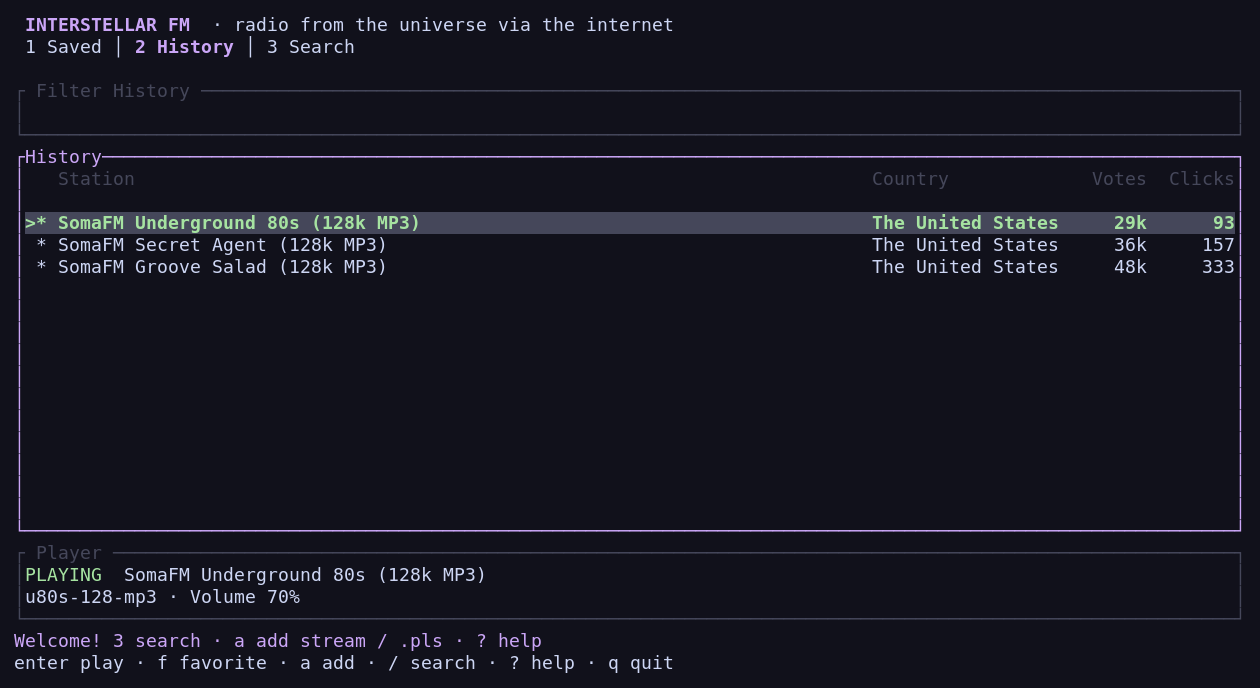
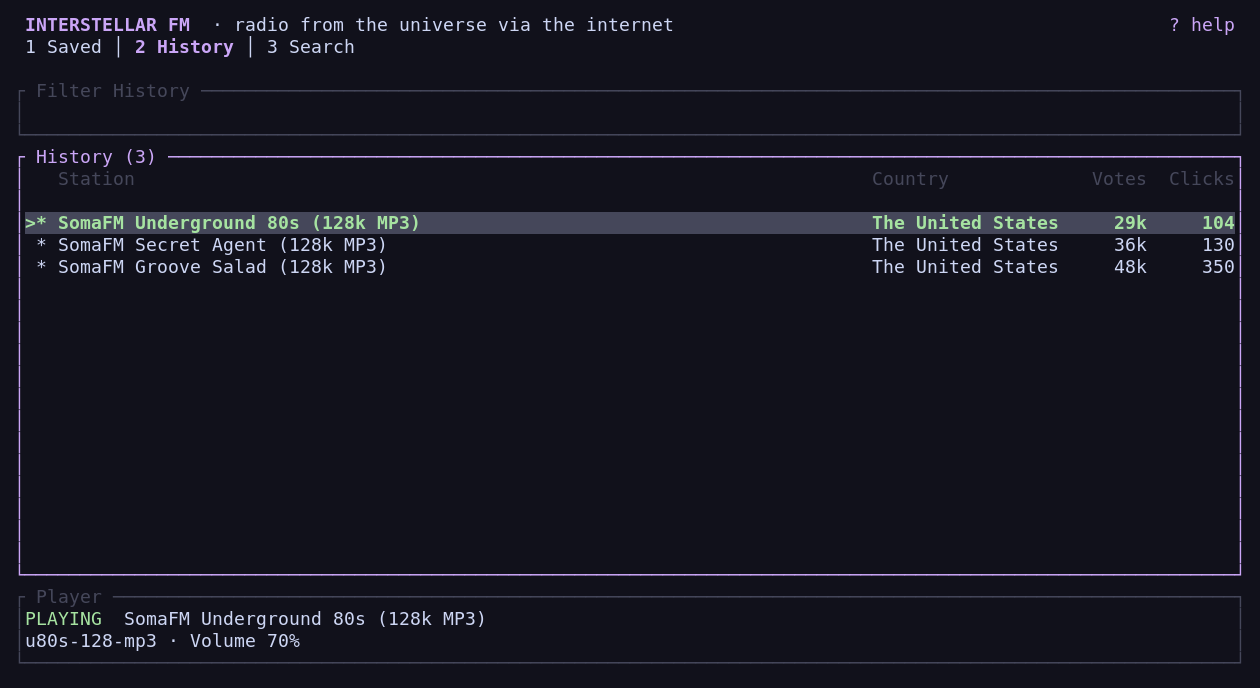
ui: replace routine footer hints with top-right help

diff --git a/src/ui.rs b/src/ui.rs
@@ -98,10 +98,22 @@ pub fn draw(frame: &mut Frame, app: &mut App) {
         Constraint::Length(1),
         Constraint::Min(3),
         Constraint::Length(4),
-        Constraint::Length(2),
+        Constraint::Length(u16::from(!app.message.is_empty())),
     ])
     .split(size);
     let color = accent(app);
+    let help = Line::from(format!("{} help ", app.keymap.hint("help")));
+    let header = Layout::horizontal([
+        Constraint::Min(0),
+        Constraint::Length(help.width().min(size.width as usize) as u16),
+    ])
+    .split(rows[0]);
+    frame.render_widget(
+        Paragraph::new(help)
+            .alignment(Alignment::Right)
+            .style(Style::default().fg(color)),
+        header[1],
+    );
     frame.render_widget(
         Paragraph::new(Line::from(vec![
             Span::styled(
@@ -110,7 +122,7 @@ pub fn draw(frame: &mut Frame, app: &mut App) {
             ),
             Span::raw(" · radio from the universe via the internet"),
         ])),
-        rows[0],
+        header[0],
     );
     let content = Layout::vertical([Constraint::Length(2), Constraint::Min(1)]).split(rows[1]);
     let tab_highlight = Style::default().fg(color).add_modifier(Modifier::BOLD);
@@ -188,10 +200,11 @@ pub fn draw(frame: &mut Frame, app: &mut App) {
         widths.push(Constraint::Length(7));
     }
     let title = if app.section == Section::Search && app.query.trim().chars().count() < 2 {
-        " Discover stations "
+        "Discover stations"
     } else {
         app.section.title()
     };
+    let title = format!(" {title} ({}) ", stations.len());
     let table = Table::new(rows_data, widths)
         .header(
             Row::new(headers)
@@ -199,7 +212,7 @@ pub fn draw(frame: &mut Frame, app: &mut App) {
                 .bottom_margin(1),
         )
         .block(panel(
-            title,
+            &title,
             if !app.tabs_focus && matches!(app.mode, Mode::Normal) {
                 color
             } else {
@@ -262,24 +275,12 @@ pub fn draw(frame: &mut Frame, app: &mut App) {
         Paragraph::new(player).block(panel(" Player ", Color::DarkGray)),
         rows[2],
     );
-    frame.render_widget(
-        Paragraph::new(vec![
-            Line::from(Span::styled(
-                clean(&app.message),
-                Style::default().fg(color),
-            )),
-            Line::from(format!(
-                "{} play · {} favorite · {} add · {} search · {} help · {} quit",
-                app.keymap.hint("play"),
-                app.keymap.hint("favorite"),
-                app.keymap.hint("add"),
-                app.keymap.hint("filter"),
-                app.keymap.hint("help"),
-                app.keymap.hint("quit")
-            )),
-        ]),
-        rows[3],
-    );
+    if !app.message.is_empty() {
+        frame.render_widget(
+            Paragraph::new(clean(&app.message)).style(Style::default().fg(color)),
+            rows[3],
+        );
+    }
     match &app.mode {
         Mode::Help => {
             let area = popup(frame, 78, 34, " Controls · j/k scroll · Esc close ", color);
@@ -584,6 +585,56 @@ mod tests {
             );
             assert!(!buffer[(history, 1)].modifier.contains(Modifier::UNDERLINED));
         }
+    }
+
+    #[test]
+    fn help_hint_stays_at_the_top_right_even_on_narrow_terminals_and_uses_the_keymap() {
+        for (binding, hint) in [("?", "? help "), ("H", "H help ")] {
+            let mut config = crate::config::Config::default();
+            config
+                .keybindings
+                .insert("help".into(), vec![binding.into()]);
+            let mut app = App::new(config, crate::model::Library::default());
+            for width in [36, 60, 120] {
+                let mut terminal = Terminal::new(TestBackend::new(width, 35)).unwrap();
+                terminal.draw(|frame| draw(frame, &mut app)).unwrap();
+                let buffer = terminal.backend().buffer();
+                let header: String = (0..width).map(|x| buffer[(x, 0)].symbol()).collect();
+                assert!(
+                    header.ends_with(hint),
+                    "wrong help hint at width {width}: {header}"
+                );
+                assert!(header.contains("INTERSTELLAR FM"));
+            }
+        }
+    }
+
+    #[test]
+    fn routine_footer_is_gone_but_action_feedback_and_errors_stay_visible() {
+        let mut app = App::new(
+            crate::config::Config::default(),
+            crate::model::Library::default(),
+        );
+        for message in ["", "Saved Jazz radio", "Could not save library"] {
+            app.message = message.into();
+            let mut terminal = Terminal::new(TestBackend::new(120, 35)).unwrap();
+            terminal.draw(|frame| draw(frame, &mut app)).unwrap();
+            let buffer = terminal.backend().buffer();
+            let bottom: String = (0..120).map(|x| buffer[(x, 34)].symbol()).collect();
+            if message.is_empty() {
+                assert_eq!(buffer[(0, 34)].symbol(), "└", "player uses the last row");
+            } else {
+                assert!(bottom.contains(message));
+            }
+            let text: String = buffer.content.iter().map(|cell| cell.symbol()).collect();
+            assert!(!text.contains("enter play"));
+            assert!(!text.contains("f favorite"));
+            assert!(!text.contains("Welcome!"));
+        }
+        app.section = Section::Search;
+        app.query = "jazz".into();
+        app.message.clear();
+        assert!(screen(&mut app, 120).contains("Search (0)"));
     }
 
     #[test]

diff --git a/src/app.rs b/src/app.rs
@@ -130,7 +130,7 @@ impl App {
             search_generation: 0,
             import_generation: 0,
             search_due: None,
-            message: "Welcome! 3 search · a add stream / .pls · ? help".into(),
+            message: String::new(),
             current: None,
             playback: "IDLE".into(),
             metadata: String::new(),
@@ -218,7 +218,7 @@ impl App {
                 }
                 self.results = stations;
                 self.tables[2].select(Some(0));
-                self.message = format!("{} stations · Enter play · f favorite", self.results.len());
+                self.message.clear();
             }
             Err(error) => {
                 self.message = clean(&error);
@@ -233,6 +233,7 @@ impl App {
             form.busy = false;
             match result {
                 Ok(entries) => {
+                    self.message.clear();
                     let mut selected = vec![false; entries.len()];
                     if selected.len() == 1 {
                         selected[0] = true;
@@ -297,6 +298,7 @@ impl App {
             Mode::Add(mut form) => {
                 if key.code == KeyCode::Esc {
                     self.import_generation += 1;
+                    self.message.clear();
                     return vec![];
                 }
                 let mut effects = vec![];
@@ -334,7 +336,7 @@ impl App {
             }
             Mode::Import(mut preview) => {
                 match key.code {
-                    KeyCode::Esc => {}
+                    KeyCode::Esc => self.message.clear(),
                     KeyCode::Up | KeyCode::Char('k') => {
                         preview.cursor = preview.cursor.saturating_sub(1);
                         self.mode = Mode::Import(preview);
@@ -499,7 +501,7 @@ impl App {
             KeyCode::Char('a') => {
                 self.import_generation += 1;
                 self.mode = Mode::Add(AddForm::default());
-                self.message = "Paste a stream URL, .pls URL, or local .pls path".into();
+                self.message.clear();
             }
             KeyCode::Char('p' | ' ') => return vec![Effect::Pause],
             KeyCode::Char('s') => return vec![Effect::Stop],
@@ -780,6 +782,40 @@ mod tests {
             app.key(KeyEvent::new(KeyCode::Enter, KeyModifiers::NONE))
                 .is_empty()
         );
+    }
+
+    #[test]
+    fn import_progress_and_validation_do_not_leave_stale_footer_messages() {
+        let mut app = App::new(Config::default(), Library::default());
+        app.key(key('a'));
+        app.key(KeyEvent::new(KeyCode::Enter, KeyModifiers::NONE));
+        assert!(!app.message.is_empty());
+        app.key(KeyEvent::new(KeyCode::Esc, KeyModifiers::NONE));
+        assert!(app.message.is_empty());
+        app.key(key('a'));
+        app.paste("https://example.com/live");
+        app.key(KeyEvent::new(KeyCode::Enter, KeyModifiers::NONE));
+        assert_eq!(app.message, "Reading source…");
+        let station = Station::custom(
+            url::Url::parse("https://example.com/live").unwrap(),
+            "Jazz",
+            None,
+        );
+        app.import_result(app.import_generation, Ok(vec![station]));
+        assert!(app.message.is_empty());
+        app.message = "Select streams with Space".into();
+        app.key(KeyEvent::new(KeyCode::Esc, KeyModifiers::NONE));
+        assert!(app.message.is_empty());
+    }
+
+    #[test]
+    fn startup_and_successful_search_have_no_routine_footer_message() {
+        let mut app = App::new(Config::default(), Library::default());
+        assert!(app.message.is_empty());
+        app.search_result(0, Err("Radio Browser unavailable".into()));
+        assert_eq!(app.message, "Radio Browser unavailable");
+        app.search_result(0, Ok(vec![]));
+        assert!(app.message.is_empty());
     }
 
     #[test]

diff --git a/scripts/screenshots.py b/scripts/screenshots.py
@@ -127,6 +127,8 @@ def main():
 
                 def capture(name):
                     text = screen()
+                    if "? help" not in text.splitlines()[0]:
+                        raise RuntimeError("Expected the top-right help hint; rebuild the release binary before capturing")
                     if not any(all(label in line for label in ["1 Saved", "2 History", "3 Search"]) for line in text.splitlines()[:3]):
                         raise RuntimeError("Expected top navigation tabs; rebuild the release binary before capturing")
                     time.sleep(0.3)
@@ -157,7 +159,7 @@ def main():
                 key("3", "slash")
                 xdo("type", "--clearmodifiers", "--delay", "60", "jazz")
                 key("Tab")
-                wait_for(lambda text: "jazz" in text and re.search(r"[1-9][0-9]* stations", text) and "searching" not in text, "live search results")
+                wait_for(lambda text: "jazz" in text and re.search(r"Search \([1-9][0-9]*\)", text) and "searching" not in text, "live search results")
                 capture("search")
                 key("q")
                 terminal.wait(timeout=5)

diff --git a/docs/PLAN.md b/docs/PLAN.md
@@ -54,7 +54,7 @@ Do not bring over album browsing, queues, shuffle, repeat, seeking, scrobbling, 
 Always show Saved / History / Search as top tabs, with a full-width station table below. The three sections remain visible and one section's content is active at a time; there is no sidebar, even on wide terminals.
 
 ```text
-┌ Interstellar FM ──────────────────────────────────────────────┐
+┌ Interstellar FM ─────────────────────────────────── ? help ───┐
 │ 1 Saved | 2 History | 3 Search                                │
 ├───────────────────────────────────────────────────────────────┤
 │ Search: jazz                                  Sort: Votes     │
@@ -64,8 +64,6 @@ Always show Saved / History / Search as top tabs, with a full-width station tabl
 ├───────────────────────────────────────────────────────────────┤
 │ PLAYING  Jazz Radio · Artist — Track, when available           │
 │ LIVE · MP3 128 kbps                     Volume: 70%            │
-├───────────────────────────────────────────────────────────────┤
-│ Enter play · f save · p pause · / search · ? help · q quit      │
 └───────────────────────────────────────────────────────────────┘
 ```
 
@@ -75,7 +73,7 @@ Always show Saved / History / Search as top tabs, with a full-width station tabl
 - Preserve each section's selection and scroll position independently.
 - Search input and sort controls appear in Search; Saved/History can have a local filter instead.
 - Bottom player: station, playback/buffering/error state, available ICY metadata, live indicator, volume, and mute state. Do not show a misleading track progress bar.
-- Context-sensitive footer and a help overlay generated from the active keymap.
+- No routine footer: a top-right help hint and a help overlay generated from the active keymap. Show station counts in table titles; only reserve a status line when there is an error or action feedback.
 - Station details popup: country, language, votes/clicks, tags, homepage, codec, bitrate, and stream URL.
 - At narrow widths, retain the top tabs and drop lower-priority table columns. At very small sizes, show a resize message without panicking.
 - Loading, empty, offline, and error states should explain what happened and how to retry.

diff --git a/docs/usage.md b/docs/usage.md
@@ -2,7 +2,8 @@
 
 ## Discovery and navigation
 
-- Saved, History, and Search always appear as tabs at the top, with the station list using the full width.
+- Saved, History, and Search always appear as tabs at the top, with the station list using the full width. The table title shows the visible station count.
+- Press `?` to open controls; the `? help` hint is at the top right. There is no routine footer; errors and action feedback appear in a status line only when present.
 - `1`, `2`, `3` open Saved, History, and Search. Left/Right or `h`/`l` switch tabs (wrapping at either end).
 - Tab/Shift-Tab switch tabs/list focus. When the tabs are focused, the active tab is underlined; Enter or Down returns to the list without playing.
 - Move through stations with Up/Down or `j`/`k`; Home/End or `gg`/`G` jump to the first/last row.
@@ -90,7 +91,7 @@ remove = ["d", "delete"]
 ```
 
 Overrides replace an action's defaults; unknown settings/conflicting keys are errors.
-Help and the footer reflect navigation overrides. Dialog/text-field controls are fixed;
+Help and the top-right help hint reflect navigation overrides. Dialog/text-field controls are fixed;
 `gg` and Ctrl-c are reserved. `$XDG_CONFIG_HOME` is respected.
 
 The atomic library snapshot is at
